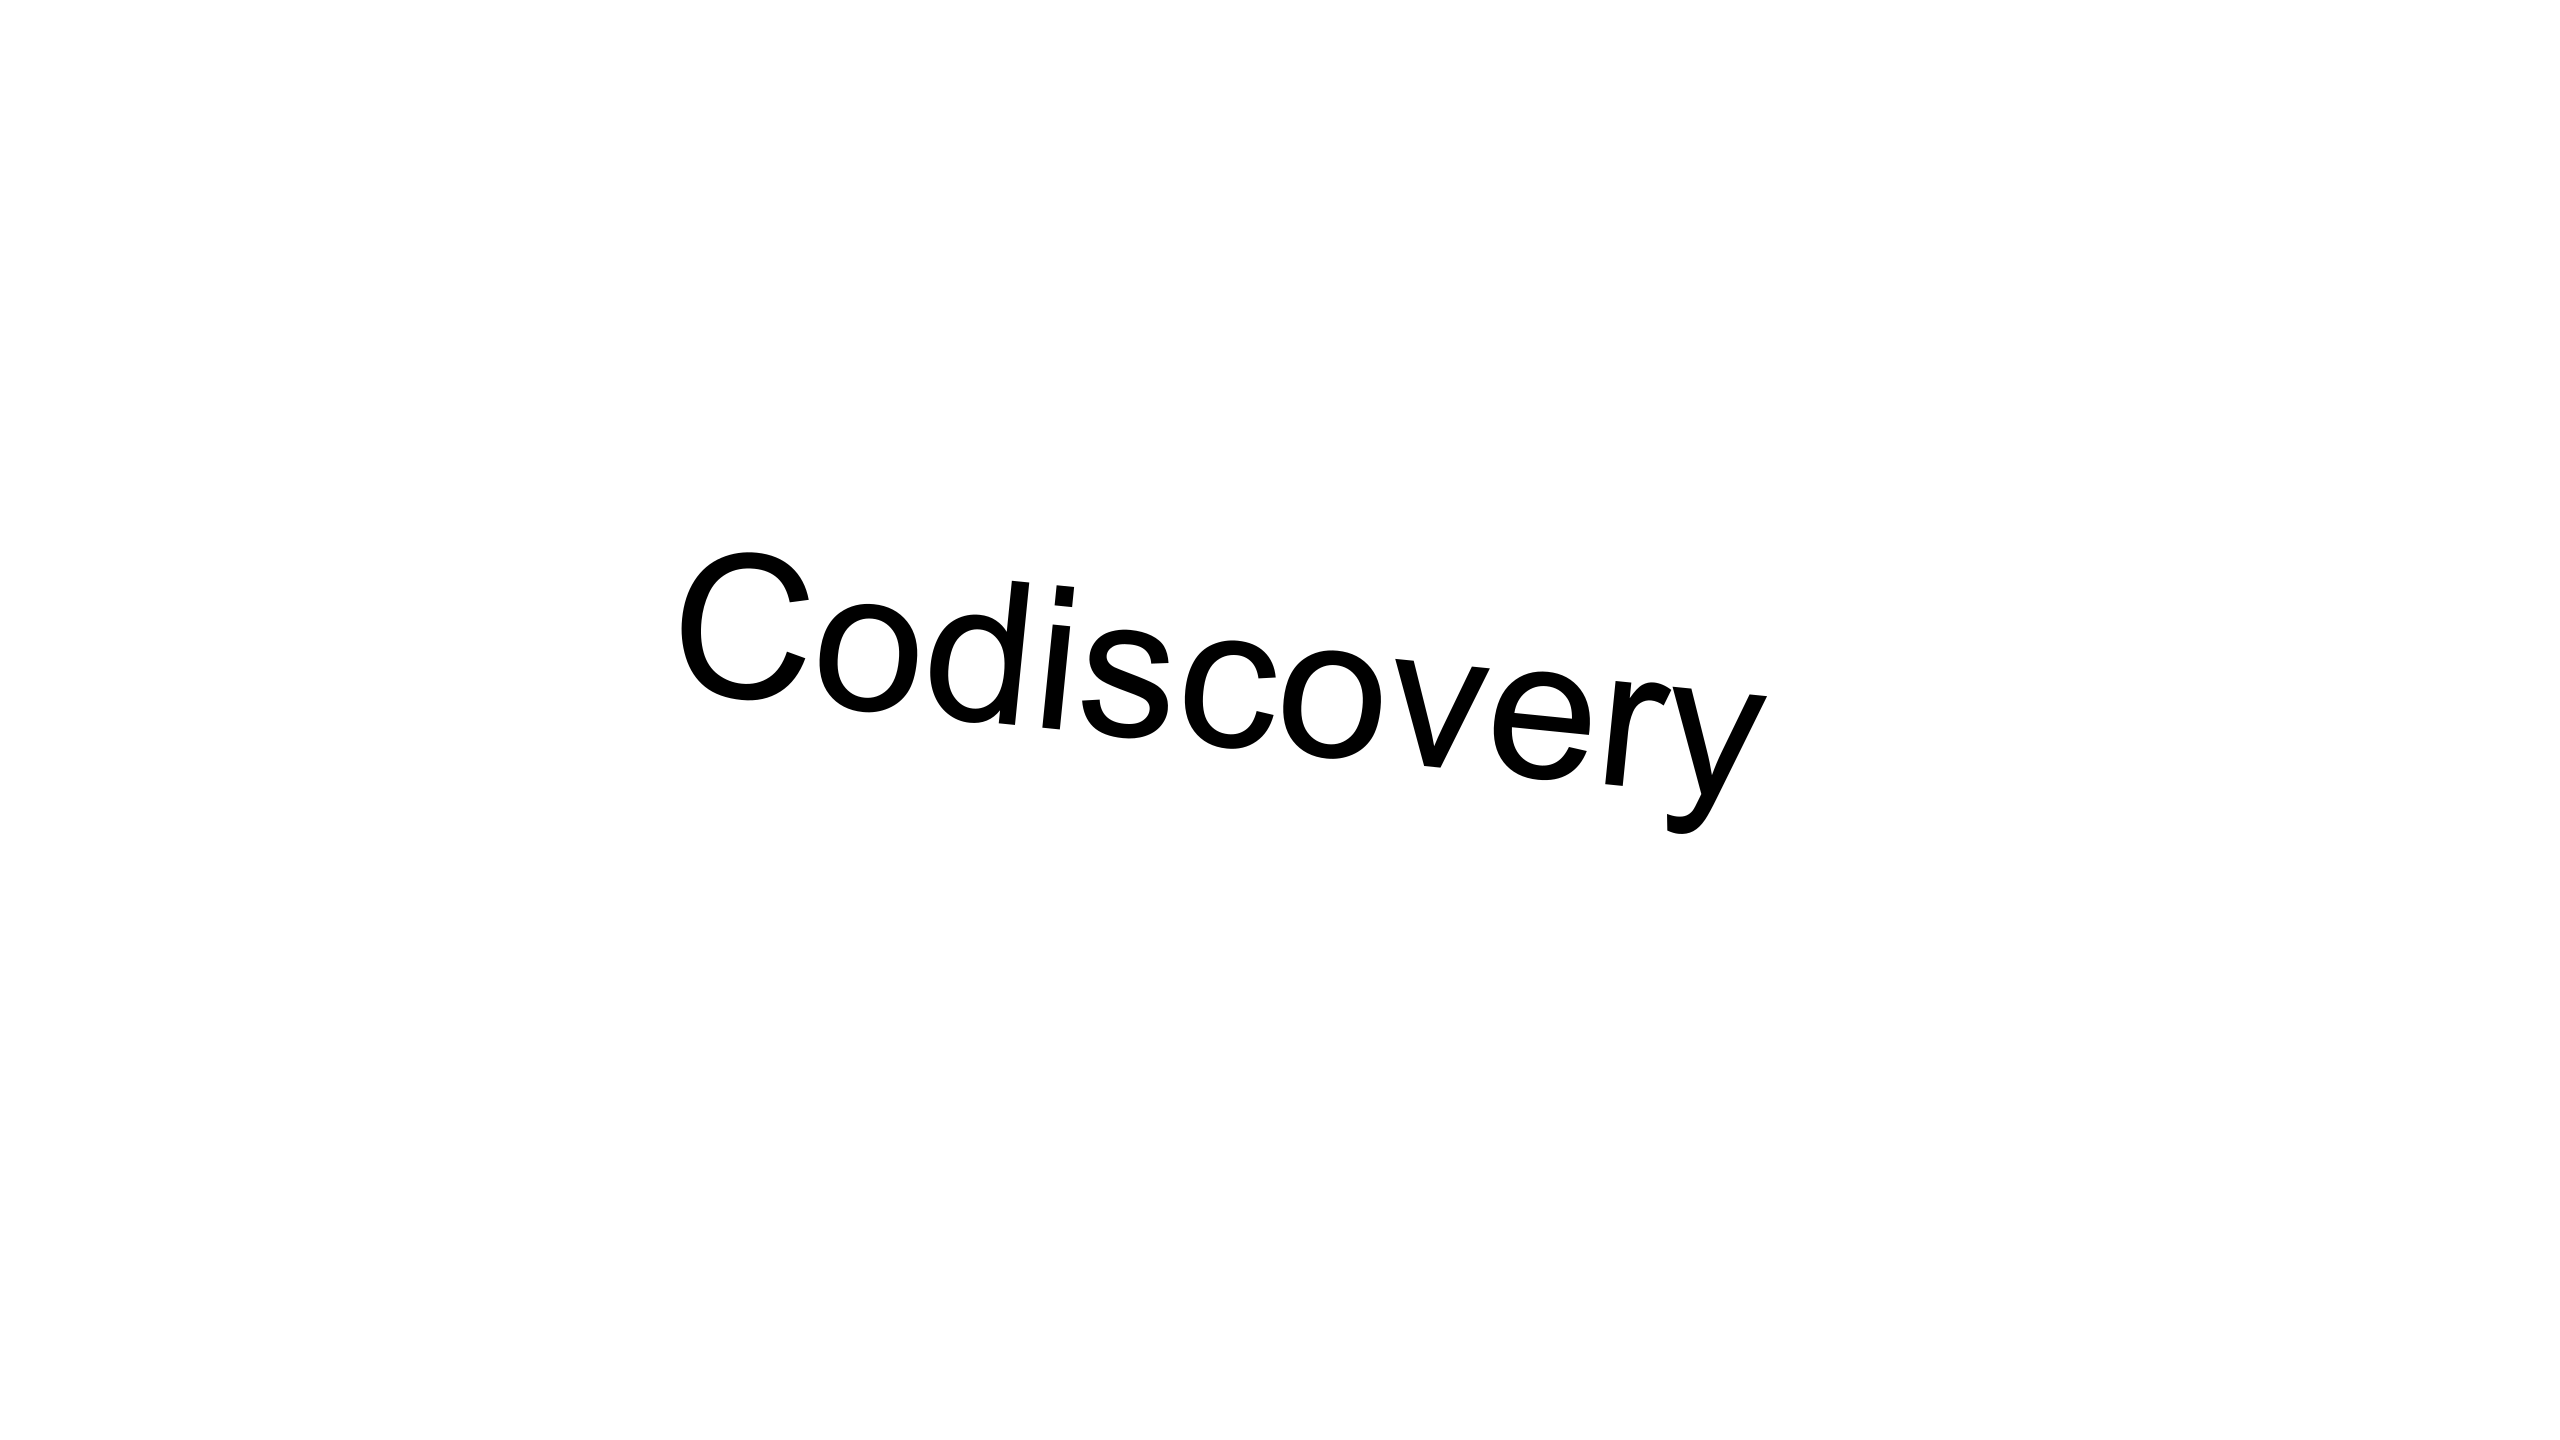
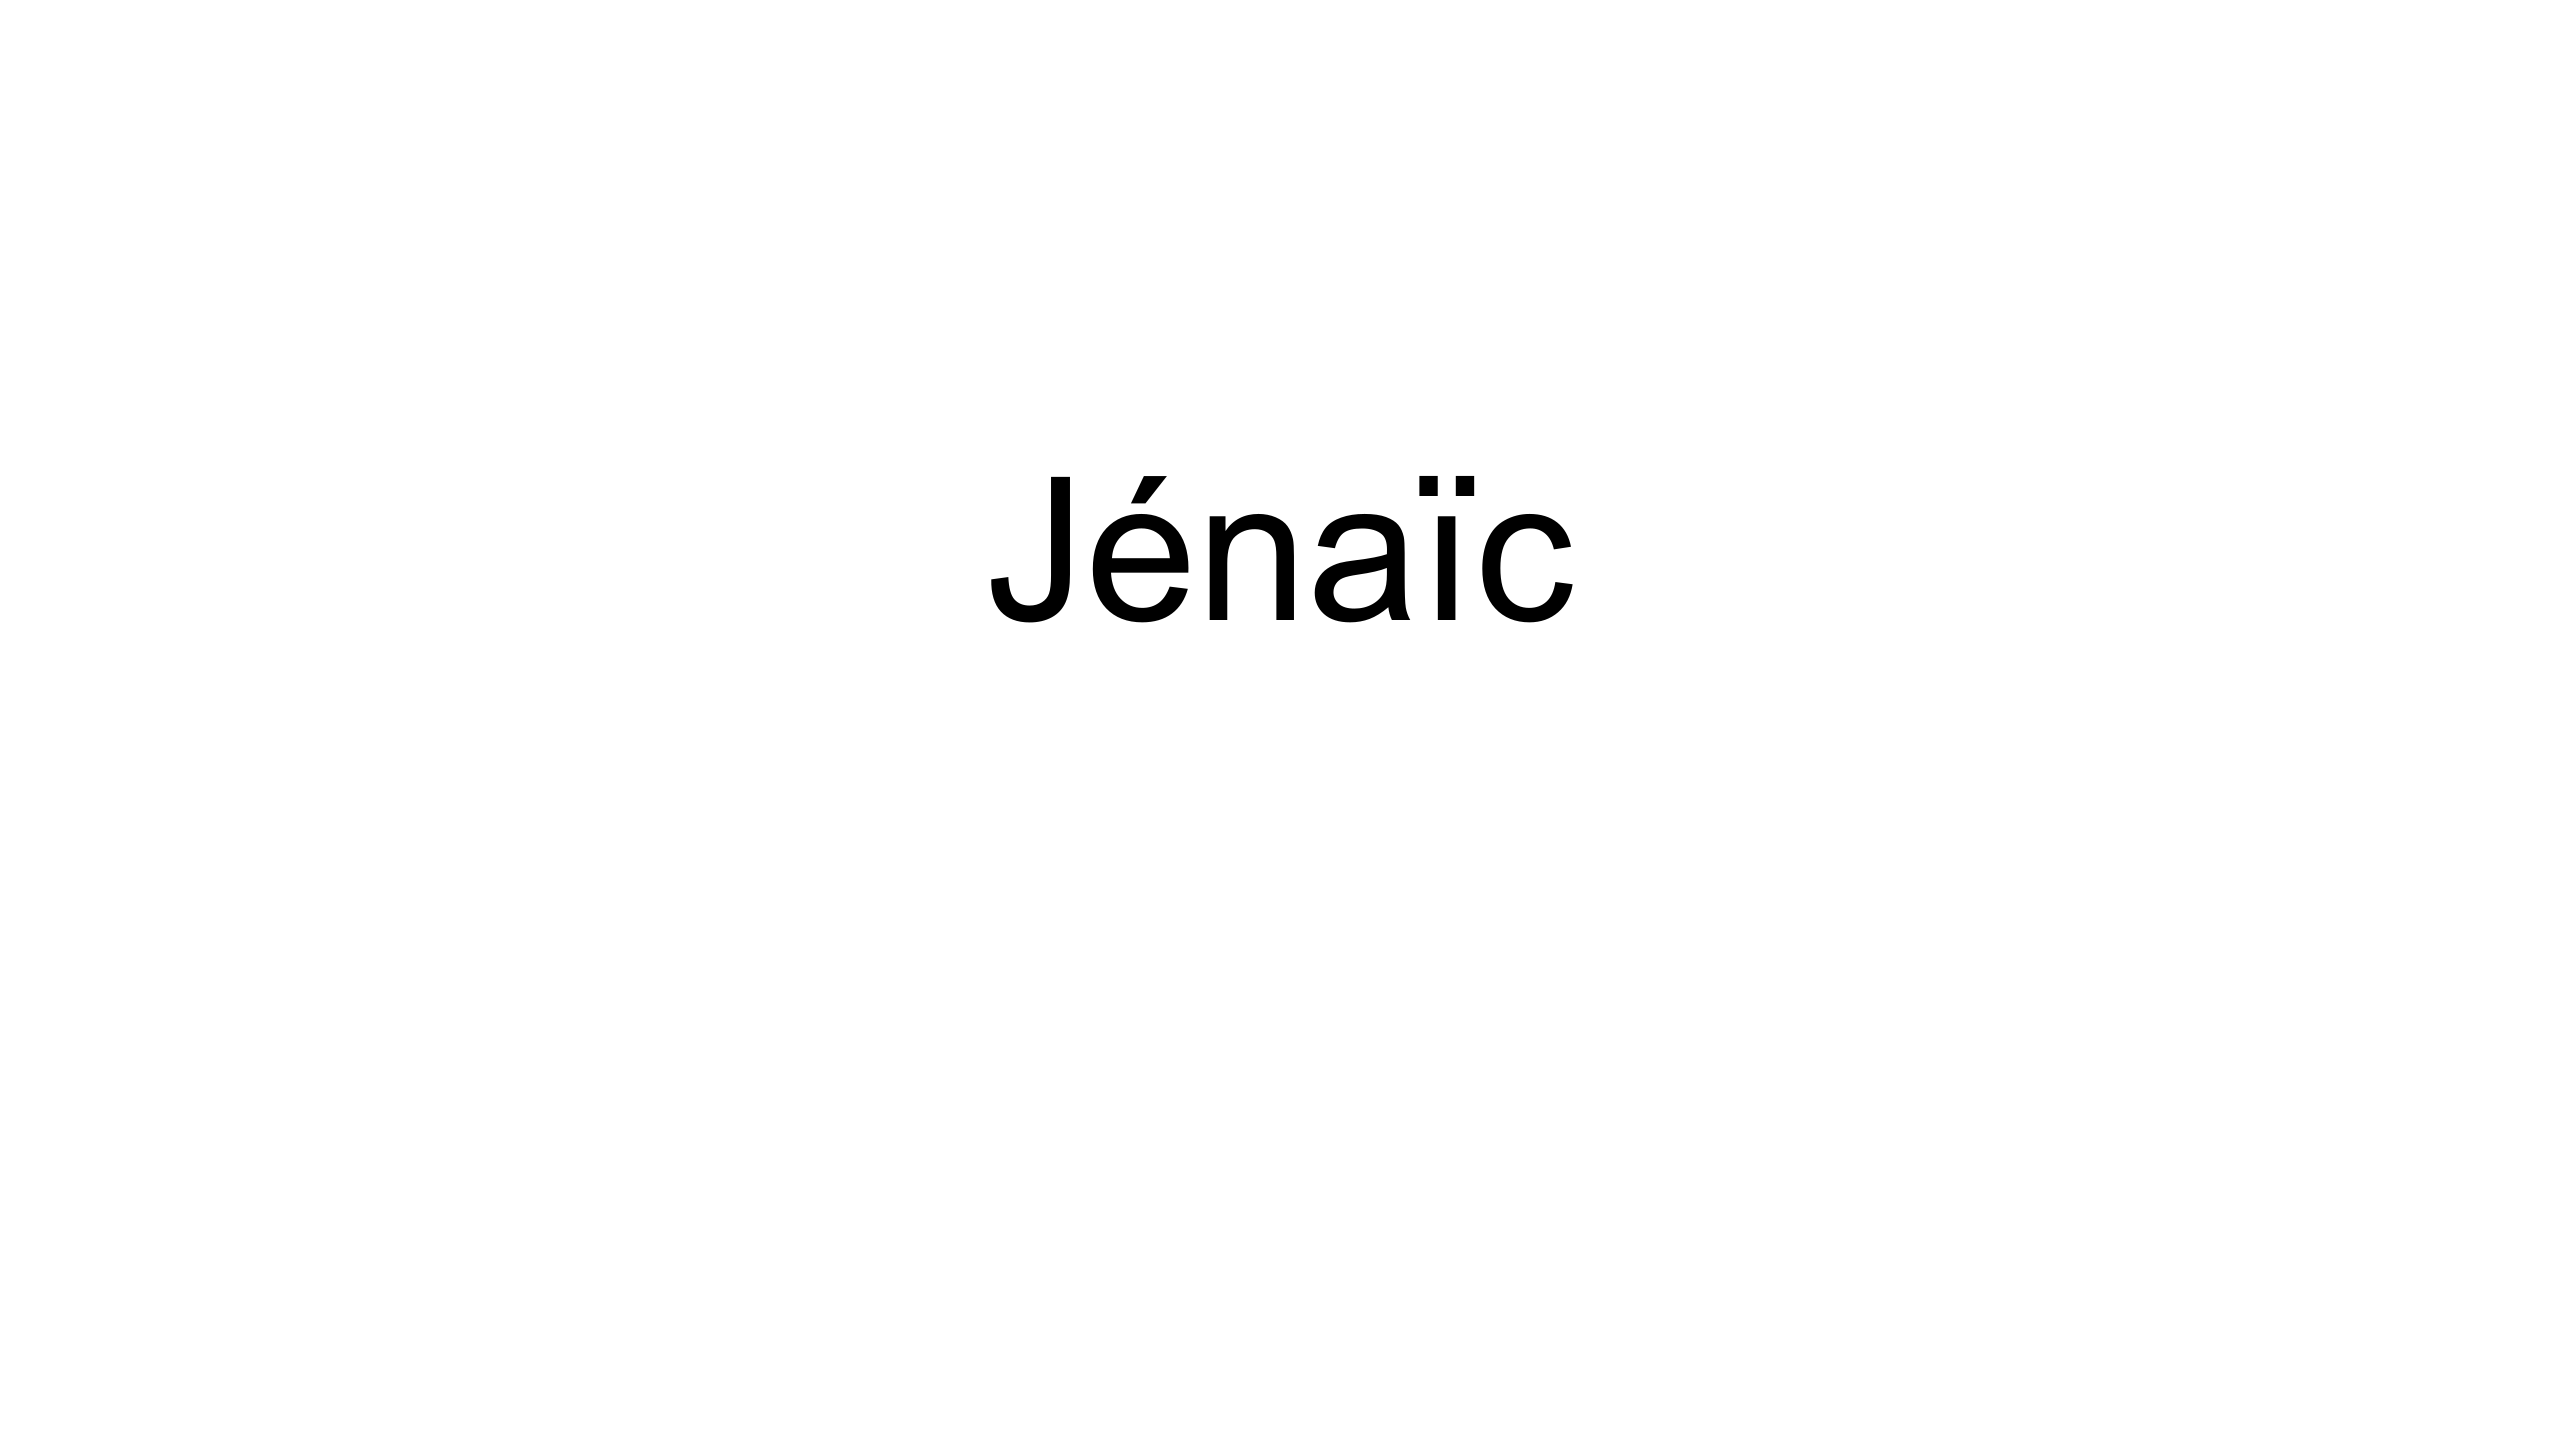
fix ts

Changed region(s): [[0.25, 0.3125, 0.6875, 0.5938]]

diff --git a/dist/image/index.js b/dist/image/index.js
@@ -7,9 +7,9 @@ import pkg from "canvas";
 import { fileURLToPath } from "url";
 var createCanvas = pkg.createCanvas;
 // const { createCanvas, loadImage } = require('canvas')
-var generateImage = function (_a) {
-    var _b = _a.title, title = _b === void 0 ? "Sans titre" : _b;
+var generateImage = function (params) {
     return new Promise(function (resolve) {
+        var _a = params.title, title = _a === void 0 ? "Sans titre" : _a;
         var WIDTH = 2560;
         var HEIGHT = 1440;
         var canvas = createCanvas(WIDTH, HEIGHT);
@@ -22,7 +22,7 @@ var generateImage = function (_a) {
         // Write "Awesome!"
         var textHeight = 200;
         ctx.font = "".concat(textHeight, "px Arial");
-        ctx.rotate(0.1);
+        // ctx.rotate(0.1);
         var titleDim = ctx.measureText(title);
         ctx.fillText(title, WIDTH * 0.5 - titleDim.width * 0.5, HEIGHT * 0.5 - textHeight * 0.5);
         // Draw line under text

diff --git a/src/image/index.ts b/src/image/index.ts
@@ -9,7 +9,7 @@ import { text } from "stream/consumers";
 const { createCanvas } = pkg;
 // const { createCanvas, loadImage } = require('canvas')
 
-const generateImage = (params) => {
+const generateImage = (params: any) => {
   return new Promise((resolve) => {
     const { title = "Sans titre" }: { title?: string } = params;
 
@@ -34,14 +34,6 @@ const generateImage = (params) => {
       WIDTH * 0.5 - titleDim.width * 0.5,
       HEIGHT * 0.5 - textHeight * 0.5
     );
-
-    // Draw line under text
-    // var text = ctx.measureText("Awesome!");
-    // ctx.strokeStyle = "rgba(0,0,0,0.5)";
-    // ctx.beginPath();
-    // ctx.lineTo(50, 102);
-    // ctx.lineTo(50 + text.width, 102);
-    // ctx.stroke();
 
     stream.pipe(out);
 
